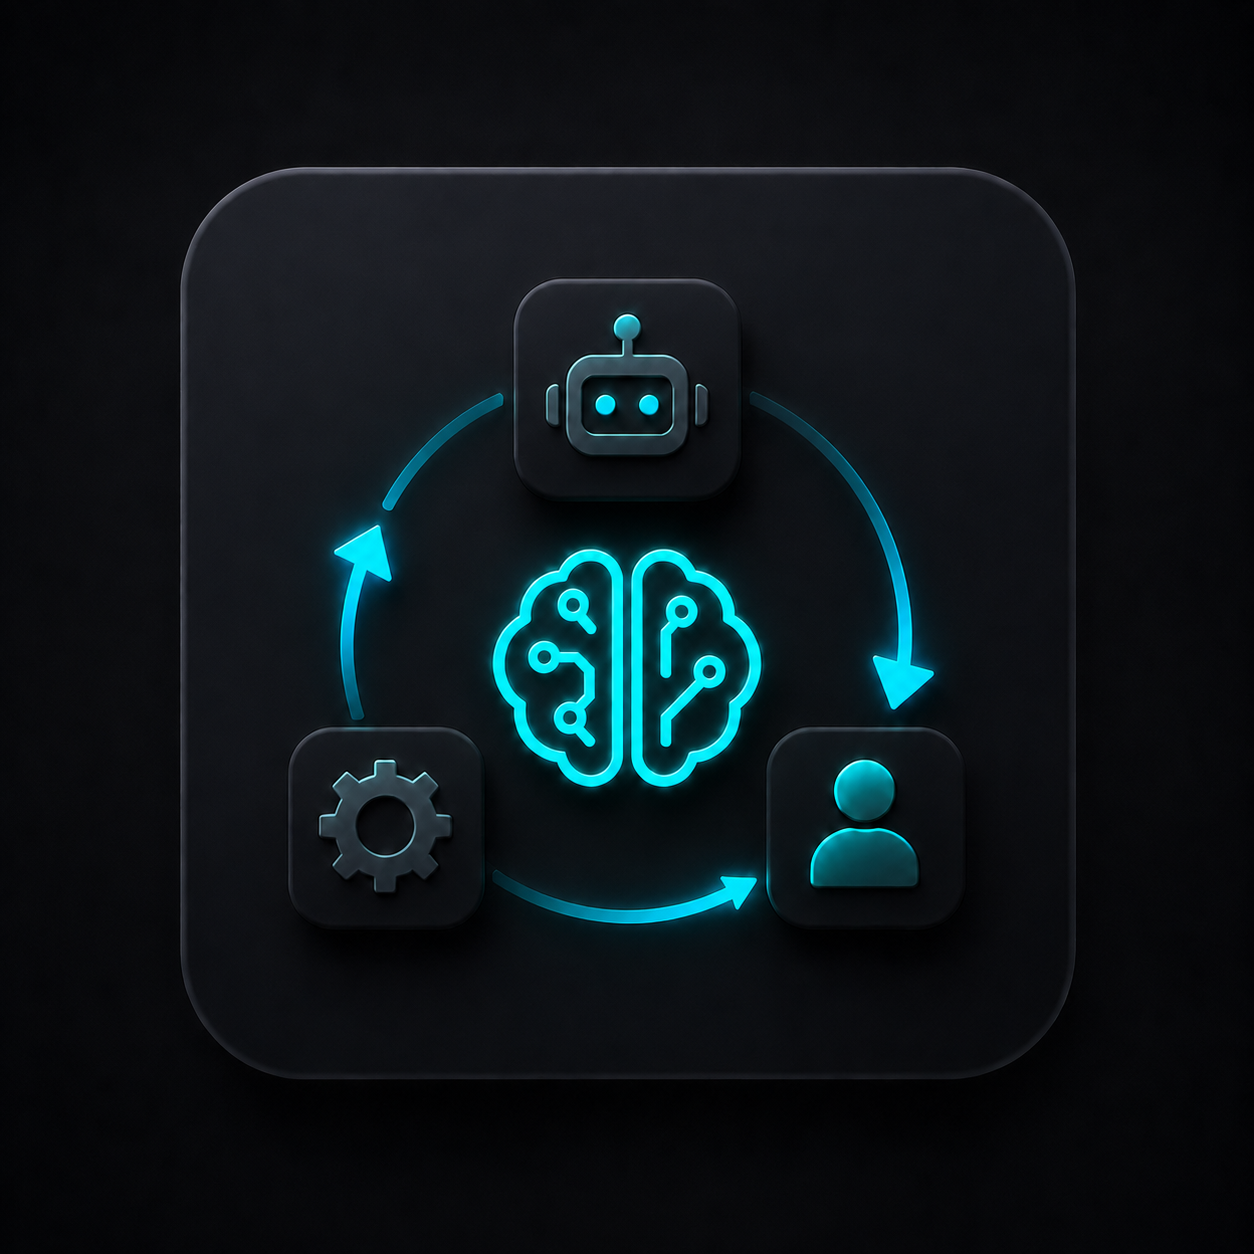
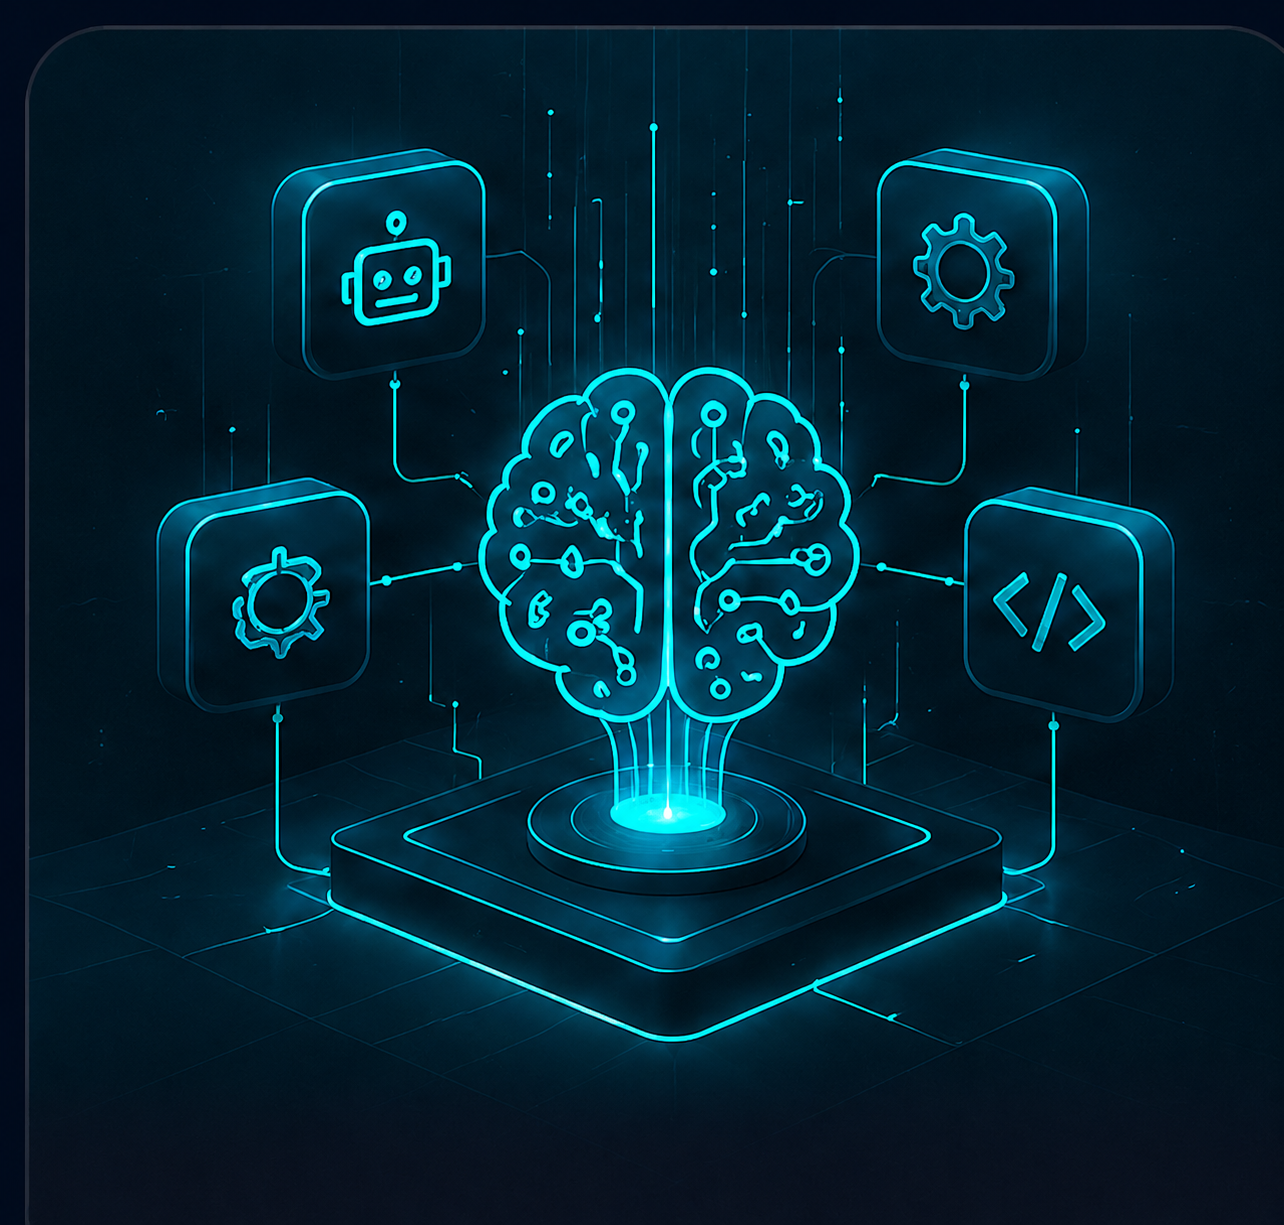
case study section fixed

diff --git a/components/site/home/HomePage.tsx b/components/site/home/HomePage.tsx
@@ -460,10 +460,10 @@ const cases = [
     desc: "Designed to present listings, developer credibility, project details, and inquiry paths in a more professional and conversion-focused way.",
   },
   {
-    industry: "Personal Brand",
-    image: "/case-personal.png",
-    title: "Personal Brand Hub Built for Lead Generation",
-    desc: "Organized scattered content, offers, and contact paths into one clear website funnel for audience conversions.",
+    industry: "Clinic / Healthcare",
+    image: "/case-clinic.png",
+    title: "Clinic Website Built for Trust and Appointment Booking",
+    desc: "Designed to present services, doctor credibility, patient trust signals, and clear booking paths.",
   },
   {
     industry: "B2B Consulting",
@@ -472,10 +472,10 @@ const cases = [
     desc: "Created to help a consulting business present services, company trust, and professional inquiry channels.",
   },
   {
-    industry: "Clinic / Healthcare",
-    image: "/case-clinic.png",
-    title: "Clinic Website Built for Trust and Appointment Booking",
-    desc: "Designed to present services, doctor credibility, patient trust signals, and clear booking paths.",
+    industry: "Personal Brand",
+    image: "/case-personal.png",
+    title: "Personal Brand Hub Built for Lead Generation",
+    desc: "Organized scattered content, offers, and contact paths into one clear website funnel for audience conversions.",
   },
 ];
 
@@ -546,10 +546,10 @@ function CaseStudies() {
                       src={c.image}
                       alt={c.title}
                       fill
-                      className="object-cover object-top transition duration-500 group-hover:scale-105"
+                      className="object-contain transition duration-500 group-hover:scale-105"
                     />
                     <div className="absolute inset-0 bg-gradient-to-t from-card/70 via-transparent to-transparent" />
-                    <span className="absolute bottom-3 left-3 rounded bg-primary/90 px-2 py-0.5 text-[10px] font-semibold text-primary-foreground">
+                    <span className="absolute bottom-3 left-3 rounded border border-primary/70 bg-transparent px-2 py-0.5 text-[10px] font-semibold text-primary">
                       {c.industry}
                     </span>
                   </div>